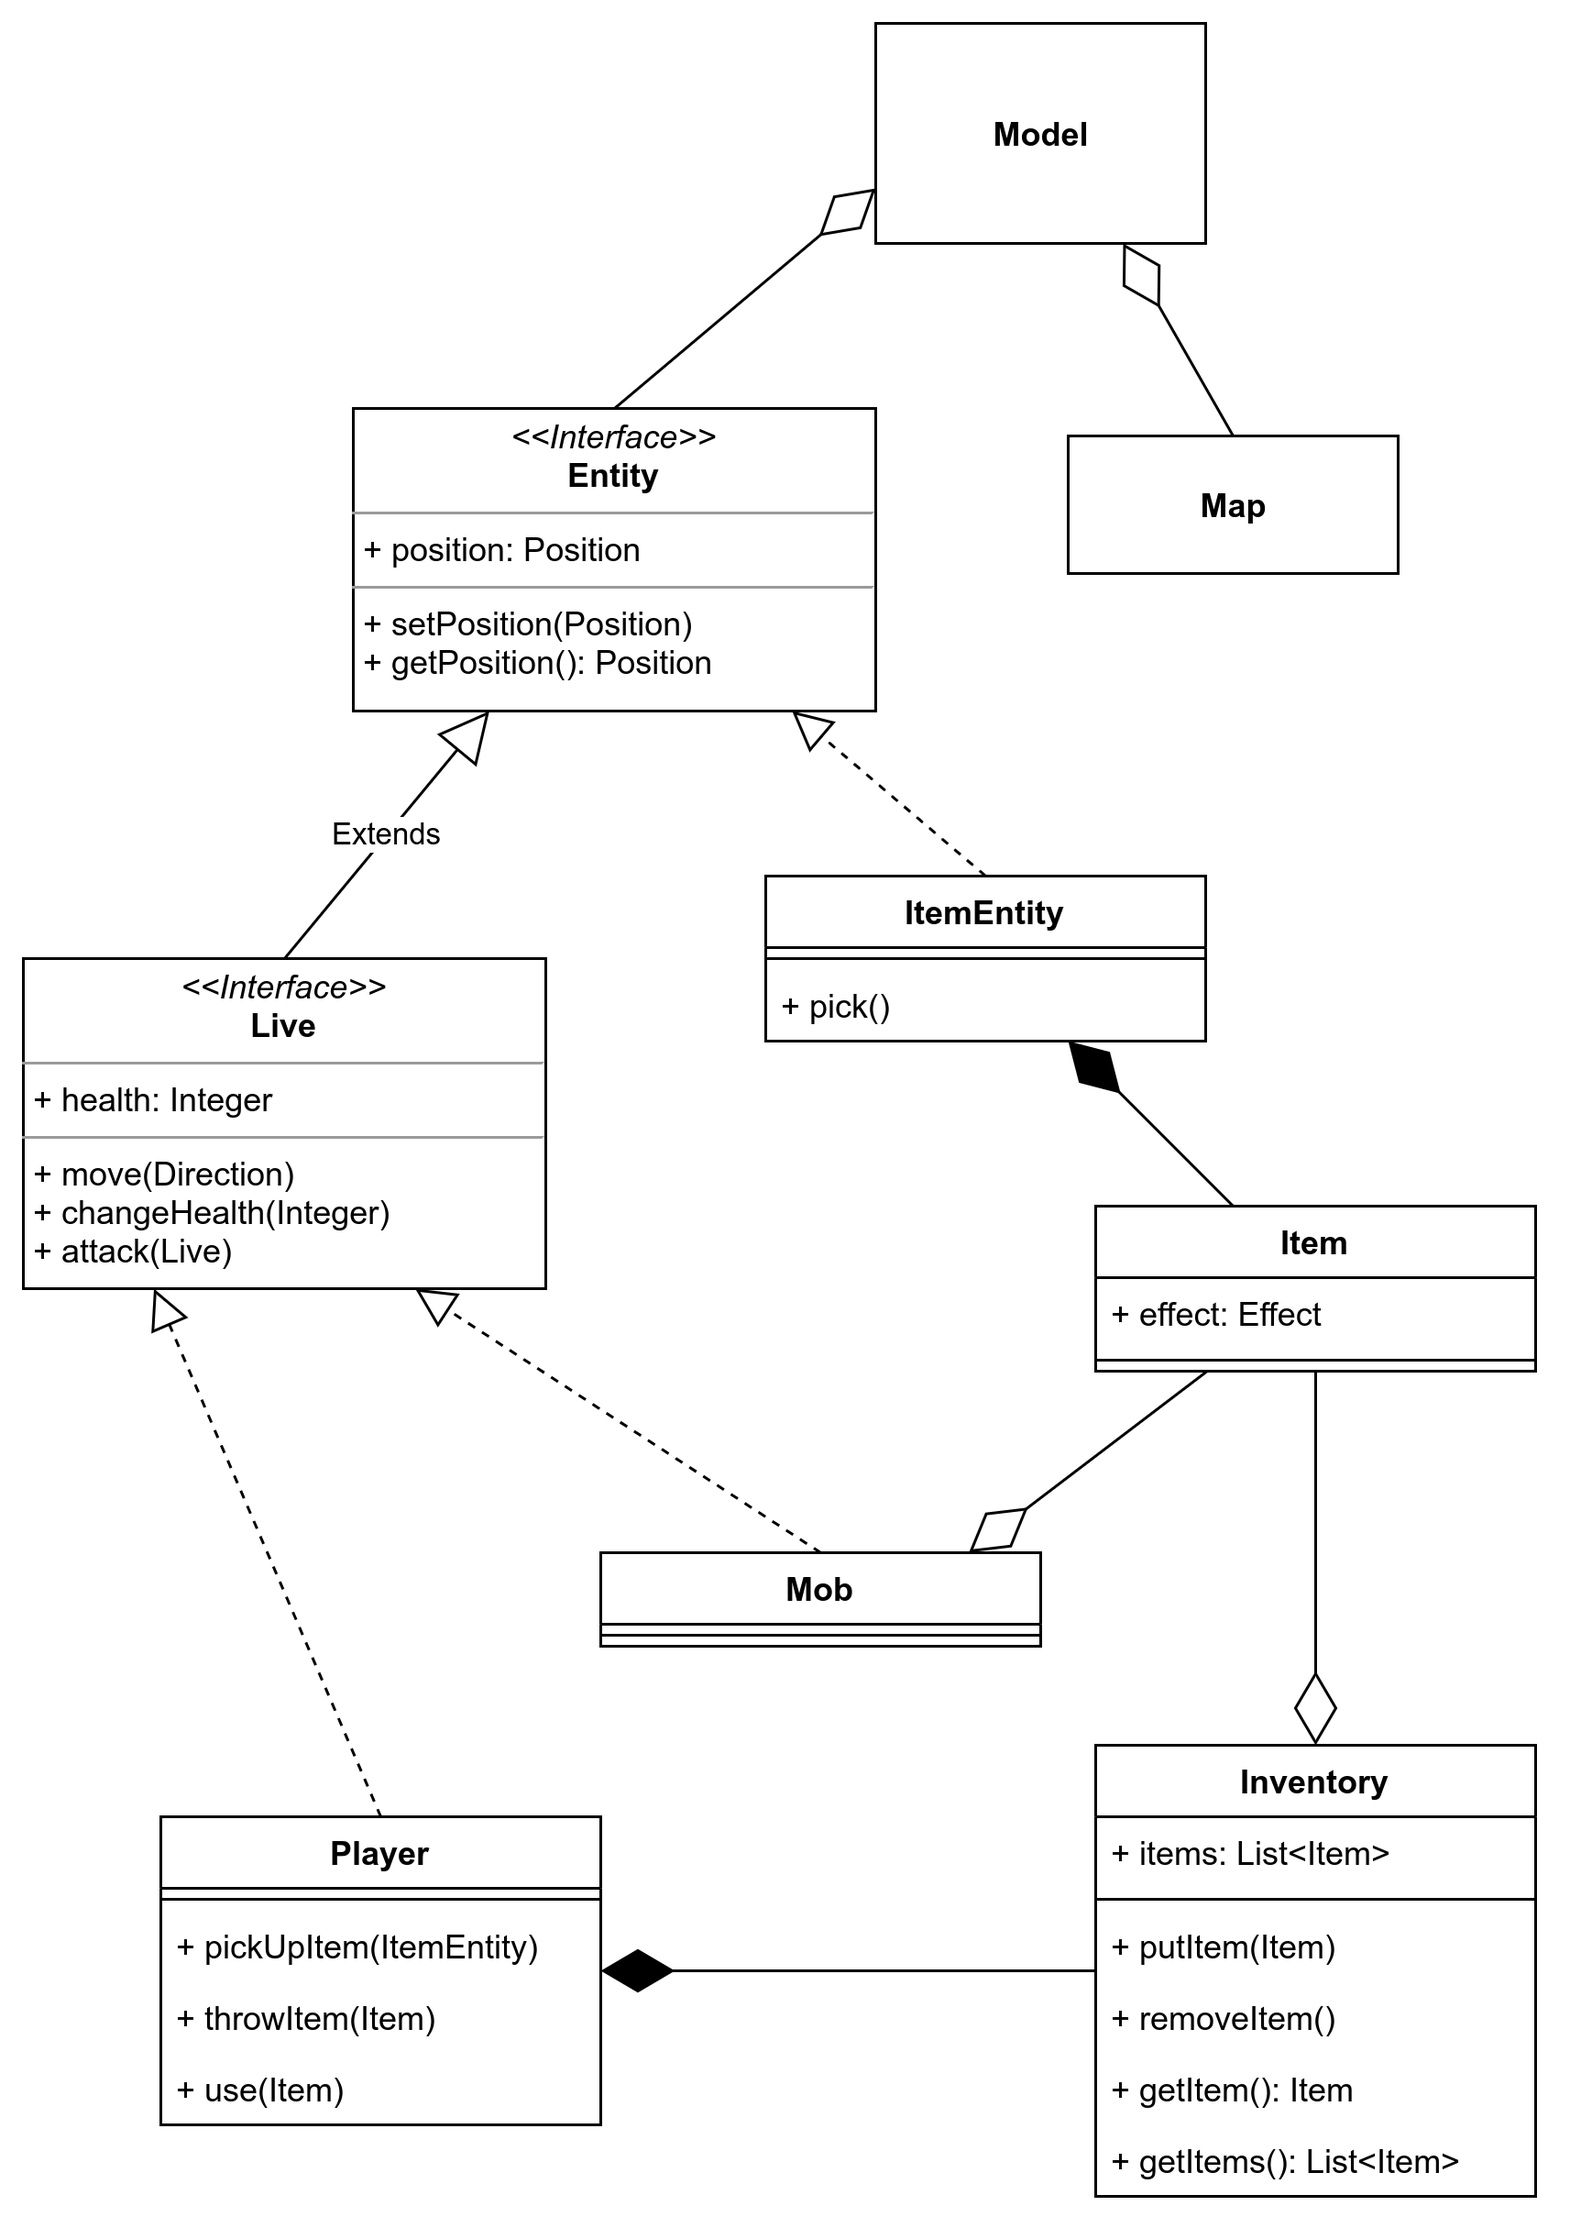
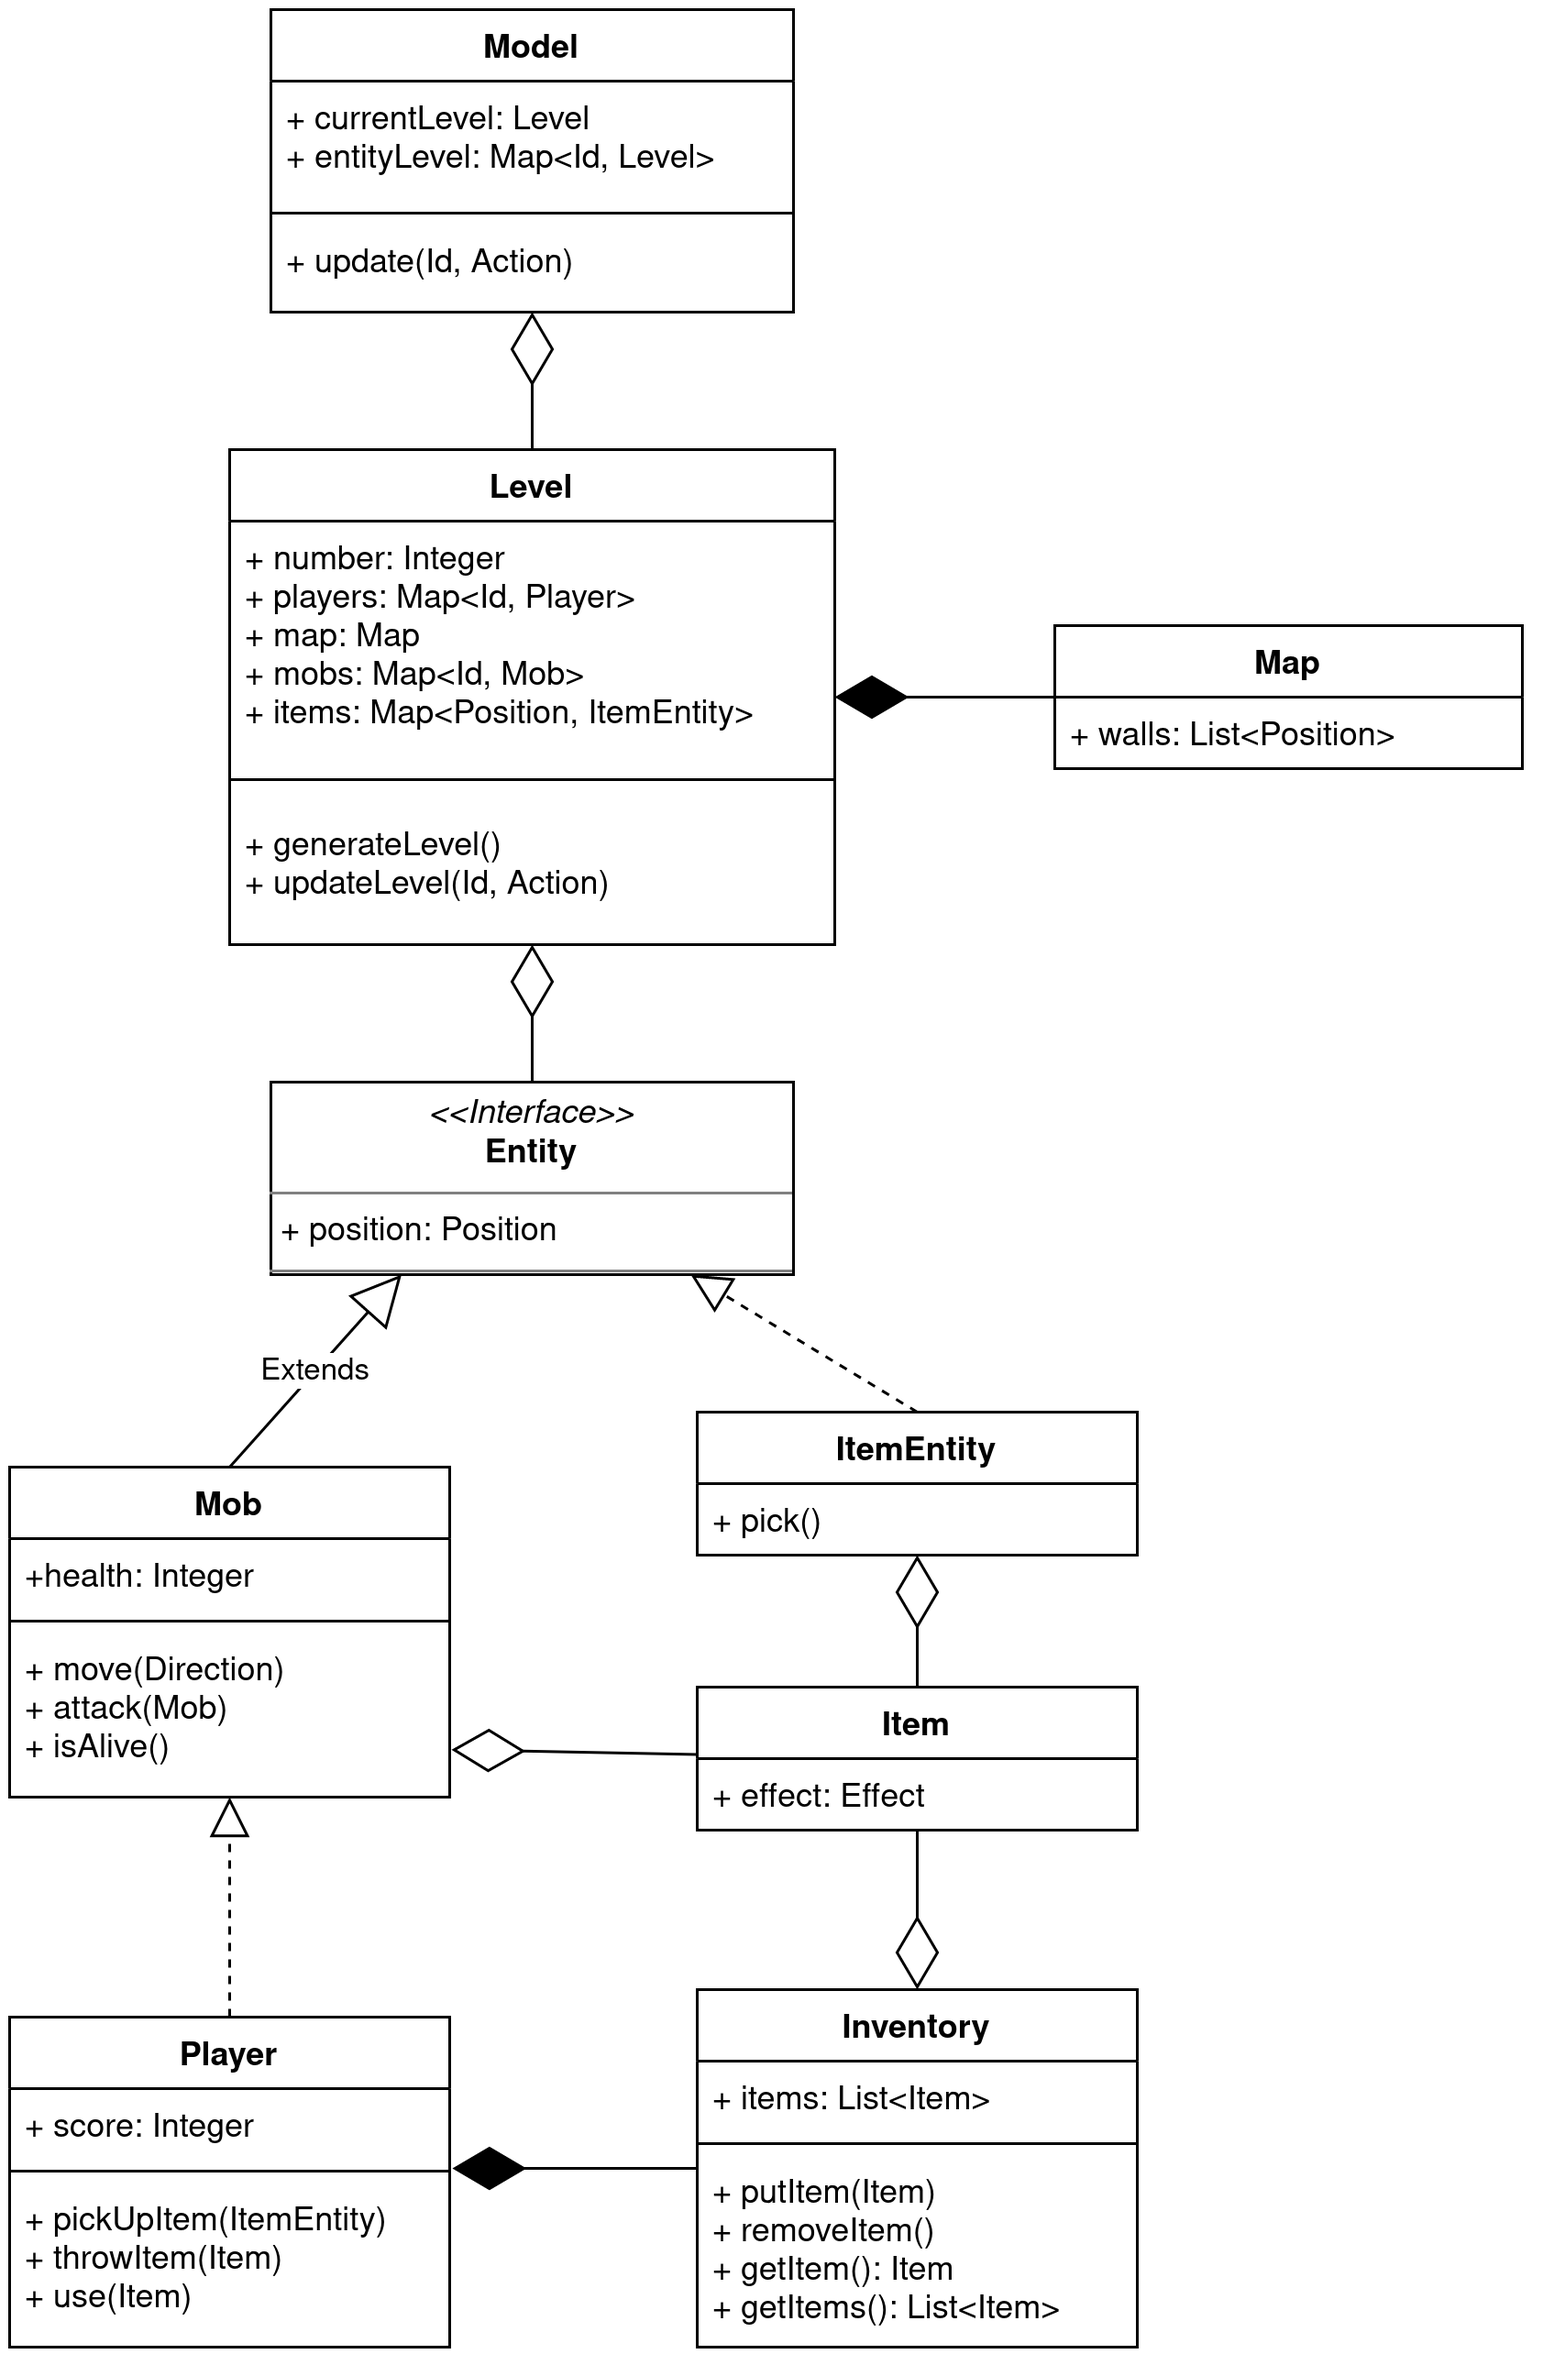
Updated diagrams

diff --git a/Design Document.md b/Design Document.md
@@ -11,7 +11,6 @@
 
 ### Случаи использования (Use Case диаграммы)
 ![Player-Client](docs/use_case1.png)
-![Client-Server](docs/use_case2.png)
 ### Ограничения
 - Клиент-серверная архитектура
 - Возможность запустить приложение на Linux, Windows и MacOS
@@ -28,6 +27,9 @@
     - Controller
     - Entities
 
-### Диаграмма классов для компоненты Model:
-![Classes diagram](docs/classes_model.png)
+### Диаграмма классов для компоненты Model
+![Classes diagram: model](docs/classes_model.png)
+
+### Диаграмма классов для Controller и ModAI
+![Classes diagram: controller](docs/classes_controller.png)
 
